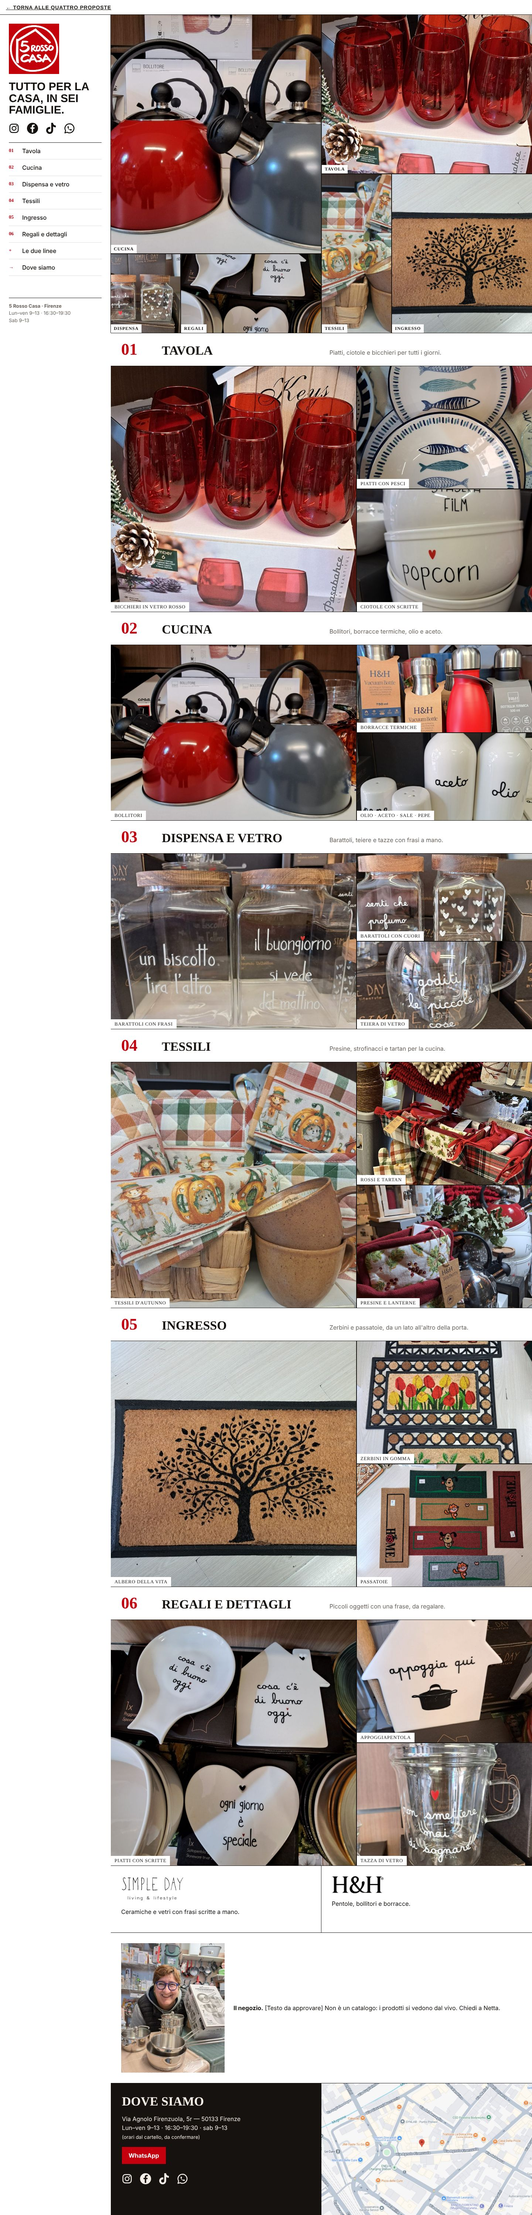
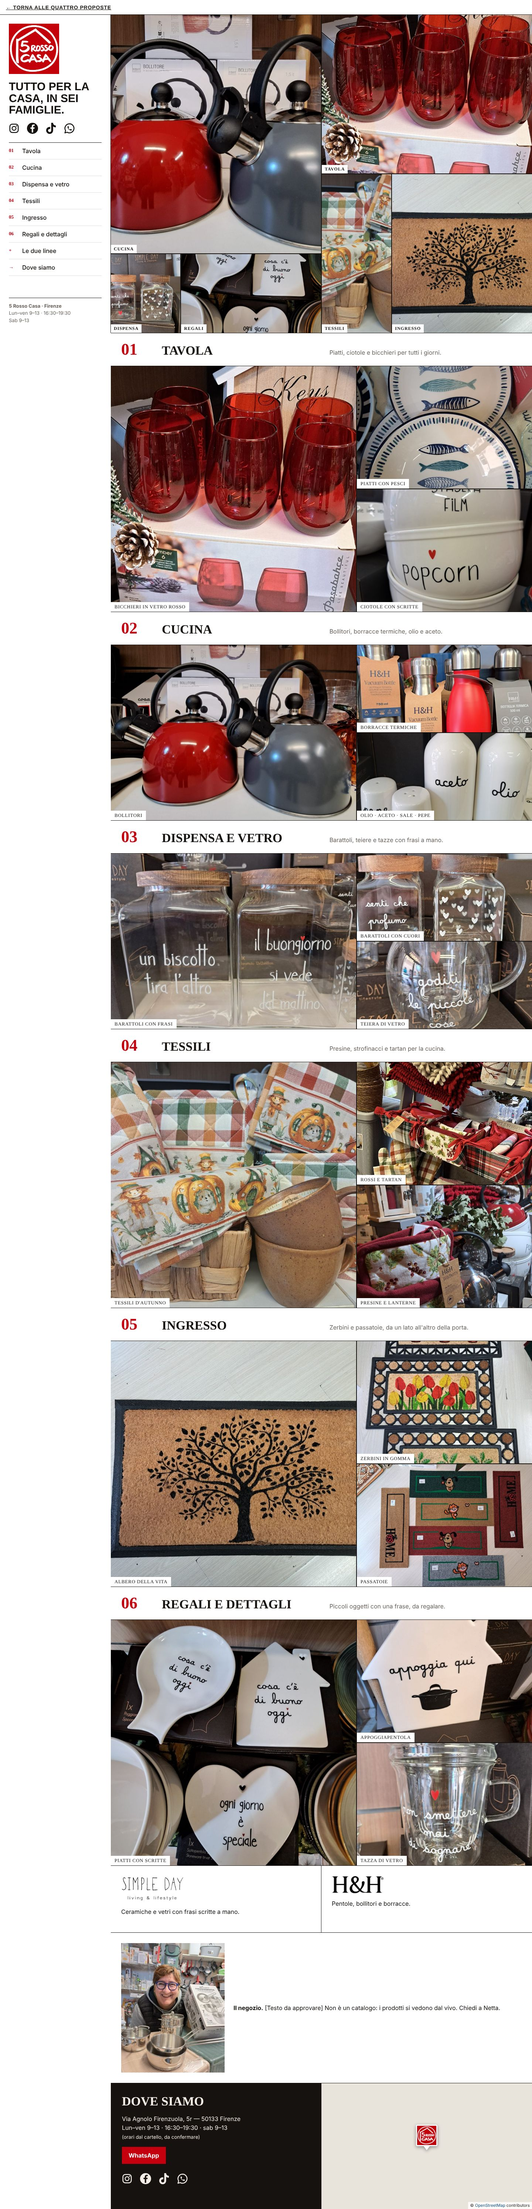
Ripristino della mappa OpenStreetMap con marchio hand 2 come indicatore in A, B, C, D
Ripristinata dal commit e8f7439; rimosse le regole della mappa statica.

Claude-Session: https://claude.ai/code/session_01Wie8PVtFxXNJm6k2L4bQJj

Changed region(s): [[0.1875, 0.0311, 1.0, 0.9965], [0.5938, 0.9342, 1.0, 1.0], [0.0312, 0.0311, 0.125, 0.1557]]

diff --git a/C/index.html b/C/index.html
@@ -35,9 +35,6 @@ img{display:block;width:100%;height:100%;object-fit:cover}a{color:inherit}
 .mk{display:block;height:auto;max-width:100%}.mk-sd{width:170px}.mk-hh{width:140px}
 .brands .mk{display:inline-block;align-self:center}.brands .mk-sd{width:120px}.brands .mk-hh{width:100px}
 .mk-in{display:inline-block;width:120px;height:auto!important;aspect-ratio:auto!important;object-fit:contain!important;vertical-align:middle;margin-right:10px;background:#f4ecdf;padding:5px 9px;border-radius:4px;box-sizing:content-box}
-.mapx{height:auto!important;background:#eee}.mapa{position:static!important;display:block}
-.mapimg{display:block;width:100%;height:auto;aspect-ratio:16/10;max-height:460px;object-fit:cover;object-position:48% 45%}
-@media(max-width:800px){.mapimg{aspect-ratio:4/3}}
 .ic.off{cursor:default;pointer-events:none}
 </style></head><body>
 <svg width="0" height="0" style="position:absolute" aria-hidden="true" focusable="false"><symbol id="i-ig" viewBox="0 0 24 24"><rect x="3" y="3" width="18" height="18" rx="5" fill="none" stroke="currentColor" stroke-width="2"/><circle cx="12" cy="12" r="4.2" fill="none" stroke="currentColor" stroke-width="2"/><circle cx="17.4" cy="6.6" r="1.3" fill="currentColor"/></symbol><symbol id="i-fb" viewBox="0 0 24 24"><path fill="currentColor" fill-rule="evenodd" d="M12 0a12 12 0 1 0 0 24 12 12 0 0 0 0-24zM13.4 21v-8h2.7l.4-3.1h-3.1V8c0-.9.3-1.5 1.6-1.5h1.7V3.7c-.3 0-1.3-.1-2.4-.1-2.4 0-4 1.4-4 4.1v2.2H7.6V13h2.7v8h3.1z"/></symbol><symbol id="i-tt" viewBox="0 0 24 24"><path fill="currentColor" d="M12.525.02c1.31-.02 2.61-.01 3.91-.02.08 1.53.63 3.09 1.75 4.17 1.12 1.11 2.7 1.62 4.24 1.79v4.03c-1.44-.05-2.89-.35-4.2-.97-.57-.26-1.1-.59-1.62-.93-.01 2.92.01 5.84-.02 8.75-.08 1.4-.54 2.79-1.35 3.94-1.31 1.92-3.58 3.17-5.91 3.21-1.43.08-2.86-.31-4.08-1.03-2.02-1.19-3.44-3.37-3.65-5.71-.02-.5-.03-1-.01-1.49.18-1.9 1.12-3.72 2.58-4.96 1.66-1.44 3.98-2.13 6.15-1.72.02 1.48-.04 2.96-.04 4.44-.99-.32-2.15-.23-3.02.37-.63.41-1.11 1.04-1.36 1.75-.21.51-.15 1.07-.14 1.61.24 1.64 1.82 3.02 3.5 2.87 1.12-.01 2.19-.66 2.77-1.61.19-.33.4-.67.41-1.06.1-1.79.06-3.57.07-5.36.01-4.03-.01-8.05.02-12.07z"/></symbol><symbol id="i-wa" viewBox="0 0 24 24"><path d="M12 2.2a9.8 9.8 0 0 0-8.4 14.8L2.2 21.8l4.9-1.3A9.8 9.8 0 1 0 12 2.2z" fill="none" stroke="currentColor" stroke-width="2" stroke-linejoin="round"/><path fill="currentColor" transform="translate(6.3 6.1) scale(.5)" d="M6.62 10.79c1.44 2.83 3.76 5.14 6.59 6.59l2.2-2.2c.27-.27.67-.36 1.02-.24 1.12.37 2.33.57 3.57.57.55 0 1 .45 1 1V20c0 .55-.45 1-1 1-9.39 0-17-7.61-17-17 0-.55.45-1 1-1h3.5c.55 0 1 .45 1 1 0 1.25.2 2.45.57 3.57.11.35.03.74-.25 1.02l-2.2 2.2z"/></symbol></svg>
@@ -61,6 +58,6 @@ img{display:block;width:100%;height:100%;object-fit:cover}a{color:inherit}
 <div class="three"><img src="../img/passatoie.jpg" alt="Passatoie con cani e gatti" style="aspect-ratio:4/5"><img src="../img/mosaico_zerbino_albero.jpg" alt="Zerbino albero della vita" style="aspect-ratio:4/5"><img src="../img/zerbini_gomma.jpg" alt="Zerbini in gomma con piante"></div></section>
 
 <section class="scene s4" id="s4"><div class="ph"><img src="../img/hero_facciata_mobile.jpg" alt="Ingresso del negozio 5 Rosso Casa a Firenze" style="object-position:50% 30%"><figure class="polaroid"><img src="../img/netta_piumini_tartan.jpg" alt="Netta, titolare del negozio, sorride tra due paraspifferi in tartan rosso"><figcaption>Netta, in negozio</figcaption></figure></div>
-<div class="in"><div class="hand" style="color:var(--rosso)">ultimo capitolo</div><h2 style="font:700 clamp(36px,4vw,56px)/1 'Bricolage Grotesque';margin:0">Il resto, dal vivo.</h2><p>Via Agnolo Firenzuola, 5r — 50133 Firenze<br>Lun–ven 9–13 · 16:30–19:30 · sab 9–13<br><small>(orari dal cartello, da confermare)</small></p><p><a class="btn" role="link" aria-disabled="true" title="Numero WhatsApp da confermare">Scrivici su WhatsApp</a></p><div class="soc"><span class="ic off" role="img" aria-label="Instagram"><svg aria-hidden="true" focusable="false"><use href="#i-ig"/></svg></span><span class="ic off" role="img" aria-label="Facebook"><svg aria-hidden="true" focusable="false"><use href="#i-fb"/></svg></span><span class="ic off" role="img" aria-label="TikTok"><svg aria-hidden="true" focusable="false"><use href="#i-tt"/></svg></span><span class="ic off" role="img" aria-label="WhatsApp"><svg aria-hidden="true" focusable="false"><use href="#i-wa"/></svg></span></div><div class="mapx"><a class="mapa" href="https://www.google.com/maps/search/?api=1&query=Via+Agnolo+Firenzuola+5r+50133+Firenze" target="_blank" rel="noopener noreferrer" aria-label="Mappa: 5 Rosso Casa, Via Agnolo Firenzuola, 5r — 50133 Firenze (si apre in Google Maps in una nuova scheda)"><img class="mapimg" src="../img/mappa_via_agnolo_firenzuola.jpg" alt="Mappa statica: il negozio 5 Rosso Casa in Via Agnolo Firenzuola, 5r, Firenze, evidenziato dal segnaposto rosso" width="1400" height="1170"></a></div></div></section>
+<div class="in"><div class="hand" style="color:var(--rosso)">ultimo capitolo</div><h2 style="font:700 clamp(36px,4vw,56px)/1 'Bricolage Grotesque';margin:0">Il resto, dal vivo.</h2><p>Via Agnolo Firenzuola, 5r — 50133 Firenze<br>Lun–ven 9–13 · 16:30–19:30 · sab 9–13<br><small>(orari dal cartello, da confermare)</small></p><p><a class="btn" role="link" aria-disabled="true" title="Numero WhatsApp da confermare">Scrivici su WhatsApp</a></p><div class="soc"><span class="ic off" role="img" aria-label="Instagram"><svg aria-hidden="true" focusable="false"><use href="#i-ig"/></svg></span><span class="ic off" role="img" aria-label="Facebook"><svg aria-hidden="true" focusable="false"><use href="#i-fb"/></svg></span><span class="ic off" role="img" aria-label="TikTok"><svg aria-hidden="true" focusable="false"><use href="#i-tt"/></svg></span><span class="ic off" role="img" aria-label="WhatsApp"><svg aria-hidden="true" focusable="false"><use href="#i-wa"/></svg></span></div><div class="mapx"><a class="mapa" href="https://www.google.com/maps/search/?api=1&query=Via+Agnolo+Firenzuola+5r+50133+Firenze" target="_blank" rel="noopener noreferrer" aria-label="Apri la posizione di 5 Rosso Casa, Via Agnolo Firenzuola, 5r — 50133 Firenze, su Google Maps (si apre in una nuova scheda)"><div class="tiles" aria-hidden="true"><img src="https://tile.openstreetmap.org/17/69637/47766.png" alt="" width="256" height="256" loading="lazy" decoding="async" style="left:0px;top:0px"><img src="https://tile.openstreetmap.org/17/69638/47766.png" alt="" width="256" height="256" loading="lazy" decoding="async" style="left:256px;top:0px"><img src="https://tile.openstreetmap.org/17/69639/47766.png" alt="" width="256" height="256" loading="lazy" decoding="async" style="left:512px;top:0px"><img src="https://tile.openstreetmap.org/17/69640/47766.png" alt="" width="256" height="256" loading="lazy" decoding="async" style="left:768px;top:0px"><img src="https://tile.openstreetmap.org/17/69641/47766.png" alt="" width="256" height="256" loading="lazy" decoding="async" style="left:1024px;top:0px"><img src="https://tile.openstreetmap.org/17/69637/47767.png" alt="" width="256" height="256" loading="lazy" decoding="async" style="left:0px;top:256px"><img src="https://tile.openstreetmap.org/17/69638/47767.png" alt="" width="256" height="256" loading="lazy" decoding="async" style="left:256px;top:256px"><img src="https://tile.openstreetmap.org/17/69639/47767.png" alt="" width="256" height="256" loading="lazy" decoding="async" style="left:512px;top:256px"><img src="https://tile.openstreetmap.org/17/69640/47767.png" alt="" width="256" height="256" loading="lazy" decoding="async" style="left:768px;top:256px"><img src="https://tile.openstreetmap.org/17/69641/47767.png" alt="" width="256" height="256" loading="lazy" decoding="async" style="left:1024px;top:256px"><img src="https://tile.openstreetmap.org/17/69637/47768.png" alt="" width="256" height="256" loading="lazy" decoding="async" style="left:0px;top:512px"><img src="https://tile.openstreetmap.org/17/69638/47768.png" alt="" width="256" height="256" loading="lazy" decoding="async" style="left:256px;top:512px"><img src="https://tile.openstreetmap.org/17/69639/47768.png" alt="" width="256" height="256" loading="lazy" decoding="async" style="left:512px;top:512px"><img src="https://tile.openstreetmap.org/17/69640/47768.png" alt="" width="256" height="256" loading="lazy" decoding="async" style="left:768px;top:512px"><img src="https://tile.openstreetmap.org/17/69641/47768.png" alt="" width="256" height="256" loading="lazy" decoding="async" style="left:1024px;top:512px"></div><span class="pin" aria-hidden="true"><img src="../img/logo_5rossocasa_hand2_web.png" alt=""></span></a><small class="attr">© <a href="https://www.openstreetmap.org/copyright" target="_blank" rel="noopener noreferrer">OpenStreetMap</a> contributors</small></div></div></section>
 <script>(function(){var l=document.querySelector('.logo');function f(){l.classList.toggle('sm',(window.scrollY||document.documentElement.scrollTop)>60)}f();addEventListener('scroll',f,{passive:true})})()</script>
 </body></html>

diff --git a/B/index.html b/B/index.html
@@ -44,9 +44,6 @@ figcaption{position:absolute;left:0;bottom:0;background:#fff;padding:5px 10px;fo
 .mk{display:block;height:auto;max-width:100%}.mk-sd{width:170px}.mk-hh{width:140px}
 .brands .mk{display:inline-block;align-self:center}.brands .mk-sd{width:120px}.brands .mk-hh{width:100px}
 .mk-in{display:inline-block;width:120px;vertical-align:middle;margin-right:8px}
-.mapx{height:auto!important;background:#eee}.mapa{position:static!important;display:block}
-.mapimg{display:block;width:100%;height:auto;aspect-ratio:16/10;max-height:460px;object-fit:cover;object-position:48% 45%}
-@media(max-width:800px){.mapimg{aspect-ratio:4/3}}
 .ic.off{cursor:default;pointer-events:none}
 </style></head><body>
 <svg width="0" height="0" style="position:absolute" aria-hidden="true" focusable="false"><symbol id="i-ig" viewBox="0 0 24 24"><rect x="3" y="3" width="18" height="18" rx="5" fill="none" stroke="currentColor" stroke-width="2"/><circle cx="12" cy="12" r="4.2" fill="none" stroke="currentColor" stroke-width="2"/><circle cx="17.4" cy="6.6" r="1.3" fill="currentColor"/></symbol><symbol id="i-fb" viewBox="0 0 24 24"><path fill="currentColor" fill-rule="evenodd" d="M12 0a12 12 0 1 0 0 24 12 12 0 0 0 0-24zM13.4 21v-8h2.7l.4-3.1h-3.1V8c0-.9.3-1.5 1.6-1.5h1.7V3.7c-.3 0-1.3-.1-2.4-.1-2.4 0-4 1.4-4 4.1v2.2H7.6V13h2.7v8h3.1z"/></symbol><symbol id="i-tt" viewBox="0 0 24 24"><path fill="currentColor" d="M12.525.02c1.31-.02 2.61-.01 3.91-.02.08 1.53.63 3.09 1.75 4.17 1.12 1.11 2.7 1.62 4.24 1.79v4.03c-1.44-.05-2.89-.35-4.2-.97-.57-.26-1.1-.59-1.62-.93-.01 2.92.01 5.84-.02 8.75-.08 1.4-.54 2.79-1.35 3.94-1.31 1.92-3.58 3.17-5.91 3.21-1.43.08-2.86-.31-4.08-1.03-2.02-1.19-3.44-3.37-3.65-5.71-.02-.5-.03-1-.01-1.49.18-1.9 1.12-3.72 2.58-4.96 1.66-1.44 3.98-2.13 6.15-1.72.02 1.48-.04 2.96-.04 4.44-.99-.32-2.15-.23-3.02.37-.63.41-1.11 1.04-1.36 1.75-.21.51-.15 1.07-.14 1.61.24 1.64 1.82 3.02 3.5 2.87 1.12-.01 2.19-.66 2.77-1.61.19-.33.4-.67.41-1.06.1-1.79.06-3.57.07-5.36.01-4.03-.01-8.05.02-12.07z"/></symbol><symbol id="i-wa" viewBox="0 0 24 24"><path d="M12 2.2a9.8 9.8 0 0 0-8.4 14.8L2.2 21.8l4.9-1.3A9.8 9.8 0 1 0 12 2.2z" fill="none" stroke="currentColor" stroke-width="2" stroke-linejoin="round"/><path fill="currentColor" transform="translate(6.3 6.1) scale(.5)" d="M6.62 10.79c1.44 2.83 3.76 5.14 6.59 6.59l2.2-2.2c.27-.27.67-.36 1.02-.24 1.12.37 2.33.57 3.57.57.55 0 1 .45 1 1V20c0 .55-.45 1-1 1-9.39 0-17-7.61-17-17 0-.55.45-1 1-1h3.5c.55 0 1 .45 1 1 0 1.25.2 2.45.57 3.57.11.35.03.74-.25 1.02l-2.2 2.2z"/></symbol></svg>
@@ -98,5 +95,5 @@ figcaption{position:absolute;left:0;bottom:0;background:#fff;padding:5px 10px;fo
 
 <section class="linee" id="linee"><div><h3><img class="mk mk-sd" src="../img/simpleday_logo.png" alt="Simple Day — living &amp; lifestyle" width="425" height="171"></h3><p>Ceramiche e vetri con frasi scritte a mano.</p></div><div><h3><img class="mk mk-hh" src="../img/hh_logo.png" alt="H&amp;H" width="600" height="199"></h3><p>Pentole, bollitori e borracce.</p></div></section>
 <section class="negozio"><img src="../img/netta_con_pentole.jpg" alt="Netta, titolare del negozio"><div><b>Il negozio.</b> [Testo da approvare] Non è un catalogo: i prodotti si vedono dal vivo. Chiedi a Netta.</div></section>
-<section class="dove" id="dove"><div><h2 style="font:700 34px 'Archivo Narrow';text-transform:uppercase;margin:0 0 10px">Dove siamo</h2><p>Via Agnolo Firenzuola, 5r — 50133 Firenze<br>Lun–ven 9–13 · 16:30–19:30 · sab 9–13<br><small>(orari dal cartello, da confermare)</small></p><p><a class="btn" role="link" aria-disabled="true" title="Numero WhatsApp da confermare">WhatsApp</a> </p><div class="soc"><span class="ic off" role="img" aria-label="Instagram"><svg aria-hidden="true" focusable="false"><use href="#i-ig"/></svg></span><span class="ic off" role="img" aria-label="Facebook"><svg aria-hidden="true" focusable="false"><use href="#i-fb"/></svg></span><span class="ic off" role="img" aria-label="TikTok"><svg aria-hidden="true" focusable="false"><use href="#i-tt"/></svg></span><span class="ic off" role="img" aria-label="WhatsApp"><svg aria-hidden="true" focusable="false"><use href="#i-wa"/></svg></span></div></div><div class="mapx"><a class="mapa" href="https://www.google.com/maps/search/?api=1&query=Via+Agnolo+Firenzuola+5r+50133+Firenze" target="_blank" rel="noopener noreferrer" aria-label="Mappa: 5 Rosso Casa, Via Agnolo Firenzuola, 5r — 50133 Firenze (si apre in Google Maps in una nuova scheda)"><img class="mapimg" src="../img/mappa_via_agnolo_firenzuola.jpg" alt="Mappa statica: il negozio 5 Rosso Casa in Via Agnolo Firenzuola, 5r, Firenze, evidenziato dal segnaposto rosso" width="1400" height="1170"></a></div></section>
+<section class="dove" id="dove"><div><h2 style="font:700 34px 'Archivo Narrow';text-transform:uppercase;margin:0 0 10px">Dove siamo</h2><p>Via Agnolo Firenzuola, 5r — 50133 Firenze<br>Lun–ven 9–13 · 16:30–19:30 · sab 9–13<br><small>(orari dal cartello, da confermare)</small></p><p><a class="btn" role="link" aria-disabled="true" title="Numero WhatsApp da confermare">WhatsApp</a> </p><div class="soc"><span class="ic off" role="img" aria-label="Instagram"><svg aria-hidden="true" focusable="false"><use href="#i-ig"/></svg></span><span class="ic off" role="img" aria-label="Facebook"><svg aria-hidden="true" focusable="false"><use href="#i-fb"/></svg></span><span class="ic off" role="img" aria-label="TikTok"><svg aria-hidden="true" focusable="false"><use href="#i-tt"/></svg></span><span class="ic off" role="img" aria-label="WhatsApp"><svg aria-hidden="true" focusable="false"><use href="#i-wa"/></svg></span></div></div><div class="mapx"><a class="mapa" href="https://www.google.com/maps/search/?api=1&query=Via+Agnolo+Firenzuola+5r+50133+Firenze" target="_blank" rel="noopener noreferrer" aria-label="Apri la posizione di 5 Rosso Casa, Via Agnolo Firenzuola, 5r — 50133 Firenze, su Google Maps (si apre in una nuova scheda)"><div class="tiles" aria-hidden="true"><img src="https://tile.openstreetmap.org/17/69637/47766.png" alt="" width="256" height="256" loading="lazy" decoding="async" style="left:0px;top:0px"><img src="https://tile.openstreetmap.org/17/69638/47766.png" alt="" width="256" height="256" loading="lazy" decoding="async" style="left:256px;top:0px"><img src="https://tile.openstreetmap.org/17/69639/47766.png" alt="" width="256" height="256" loading="lazy" decoding="async" style="left:512px;top:0px"><img src="https://tile.openstreetmap.org/17/69640/47766.png" alt="" width="256" height="256" loading="lazy" decoding="async" style="left:768px;top:0px"><img src="https://tile.openstreetmap.org/17/69641/47766.png" alt="" width="256" height="256" loading="lazy" decoding="async" style="left:1024px;top:0px"><img src="https://tile.openstreetmap.org/17/69637/47767.png" alt="" width="256" height="256" loading="lazy" decoding="async" style="left:0px;top:256px"><img src="https://tile.openstreetmap.org/17/69638/47767.png" alt="" width="256" height="256" loading="lazy" decoding="async" style="left:256px;top:256px"><img src="https://tile.openstreetmap.org/17/69639/47767.png" alt="" width="256" height="256" loading="lazy" decoding="async" style="left:512px;top:256px"><img src="https://tile.openstreetmap.org/17/69640/47767.png" alt="" width="256" height="256" loading="lazy" decoding="async" style="left:768px;top:256px"><img src="https://tile.openstreetmap.org/17/69641/47767.png" alt="" width="256" height="256" loading="lazy" decoding="async" style="left:1024px;top:256px"><img src="https://tile.openstreetmap.org/17/69637/47768.png" alt="" width="256" height="256" loading="lazy" decoding="async" style="left:0px;top:512px"><img src="https://tile.openstreetmap.org/17/69638/47768.png" alt="" width="256" height="256" loading="lazy" decoding="async" style="left:256px;top:512px"><img src="https://tile.openstreetmap.org/17/69639/47768.png" alt="" width="256" height="256" loading="lazy" decoding="async" style="left:512px;top:512px"><img src="https://tile.openstreetmap.org/17/69640/47768.png" alt="" width="256" height="256" loading="lazy" decoding="async" style="left:768px;top:512px"><img src="https://tile.openstreetmap.org/17/69641/47768.png" alt="" width="256" height="256" loading="lazy" decoding="async" style="left:1024px;top:512px"></div><span class="pin" aria-hidden="true"><img src="../img/logo_5rossocasa_hand2_web.png" alt=""></span></a><small class="attr">© <a href="https://www.openstreetmap.org/copyright" target="_blank" rel="noopener noreferrer">OpenStreetMap</a> contributors</small></div></section>
 </main></div></body></html>

diff --git a/A/index.html b/A/index.html
@@ -43,9 +43,6 @@ footer{padding:26px;text-align:center;font-size:13px;color:var(--muto)}
 .mk{display:block;height:auto;max-width:100%}.mk-sd{width:170px}.mk-hh{width:140px}
 .brands .mk{display:inline-block;align-self:center}.brands .mk-sd{width:120px}.brands .mk-hh{width:100px}
 .mk-in{display:inline-block;width:120px;vertical-align:middle;margin-right:8px}
-.mapx{height:auto!important;background:#eee}.mapa{position:static!important;display:block}
-.mapimg{display:block;width:100%;height:auto;aspect-ratio:16/10;max-height:460px;object-fit:cover;object-position:48% 45%}
-@media(max-width:800px){.mapimg{aspect-ratio:4/3}}
 .ic.off{cursor:default;pointer-events:none}
 </style><style id="fix3">
 .first .top img{position:fixed!important;top:52px;left:24px;z-index:20;transition:width .25s ease}
@@ -75,7 +72,7 @@ footer{padding:26px;text-align:center;font-size:13px;color:var(--muto)}
 
 <section id="quartiere" class="s5"><div class="wrap cols"><div class="a"><div class="lab" style="color:#ff8a8a">Dove siamo</div><p class="lead" style="margin-bottom:24px">Via Agnolo Firenzuola, 5r — 50133 Firenze</p>
 <table><tr><td>Lunedì–venerdì</td><td>9–13 · 16:30–19:30</td></tr><tr><td>Sabato</td><td>9–13</td></tr></table><p style="font-size:13px;opacity:.7">orari dal cartello in vetrina, da confermare</p><p><a class="btn" role="link" aria-disabled="true" title="Numero WhatsApp da confermare">WhatsApp</a></p></div>
-<div class="b"><div class="mapx"><a class="mapa" href="https://www.google.com/maps/search/?api=1&query=Via+Agnolo+Firenzuola+5r+50133+Firenze" target="_blank" rel="noopener noreferrer" aria-label="Mappa: 5 Rosso Casa, Via Agnolo Firenzuola, 5r — 50133 Firenze (si apre in Google Maps in una nuova scheda)"><img class="mapimg" src="../img/mappa_via_agnolo_firenzuola.jpg" alt="Mappa statica: il negozio 5 Rosso Casa in Via Agnolo Firenzuola, 5r, Firenze, evidenziato dal segnaposto rosso" width="1400" height="1170"></a></div></div></div></section>
+<div class="b"><div class="mapx"><a class="mapa" href="https://www.google.com/maps/search/?api=1&query=Via+Agnolo+Firenzuola+5r+50133+Firenze" target="_blank" rel="noopener noreferrer" aria-label="Apri la posizione di 5 Rosso Casa, Via Agnolo Firenzuola, 5r — 50133 Firenze, su Google Maps (si apre in una nuova scheda)"><div class="tiles" aria-hidden="true"><img src="https://tile.openstreetmap.org/17/69637/47766.png" alt="" width="256" height="256" loading="lazy" decoding="async" style="left:0px;top:0px"><img src="https://tile.openstreetmap.org/17/69638/47766.png" alt="" width="256" height="256" loading="lazy" decoding="async" style="left:256px;top:0px"><img src="https://tile.openstreetmap.org/17/69639/47766.png" alt="" width="256" height="256" loading="lazy" decoding="async" style="left:512px;top:0px"><img src="https://tile.openstreetmap.org/17/69640/47766.png" alt="" width="256" height="256" loading="lazy" decoding="async" style="left:768px;top:0px"><img src="https://tile.openstreetmap.org/17/69641/47766.png" alt="" width="256" height="256" loading="lazy" decoding="async" style="left:1024px;top:0px"><img src="https://tile.openstreetmap.org/17/69637/47767.png" alt="" width="256" height="256" loading="lazy" decoding="async" style="left:0px;top:256px"><img src="https://tile.openstreetmap.org/17/69638/47767.png" alt="" width="256" height="256" loading="lazy" decoding="async" style="left:256px;top:256px"><img src="https://tile.openstreetmap.org/17/69639/47767.png" alt="" width="256" height="256" loading="lazy" decoding="async" style="left:512px;top:256px"><img src="https://tile.openstreetmap.org/17/69640/47767.png" alt="" width="256" height="256" loading="lazy" decoding="async" style="left:768px;top:256px"><img src="https://tile.openstreetmap.org/17/69641/47767.png" alt="" width="256" height="256" loading="lazy" decoding="async" style="left:1024px;top:256px"><img src="https://tile.openstreetmap.org/17/69637/47768.png" alt="" width="256" height="256" loading="lazy" decoding="async" style="left:0px;top:512px"><img src="https://tile.openstreetmap.org/17/69638/47768.png" alt="" width="256" height="256" loading="lazy" decoding="async" style="left:256px;top:512px"><img src="https://tile.openstreetmap.org/17/69639/47768.png" alt="" width="256" height="256" loading="lazy" decoding="async" style="left:512px;top:512px"><img src="https://tile.openstreetmap.org/17/69640/47768.png" alt="" width="256" height="256" loading="lazy" decoding="async" style="left:768px;top:512px"><img src="https://tile.openstreetmap.org/17/69641/47768.png" alt="" width="256" height="256" loading="lazy" decoding="async" style="left:1024px;top:512px"></div><span class="pin" aria-hidden="true"><img src="../img/logo_5rossocasa_hand2_web.png" alt=""></span></a><small class="attr">© <a href="https://www.openstreetmap.org/copyright" target="_blank" rel="noopener noreferrer">OpenStreetMap</a> contributors</small></div></div></div></section>
 <footer><div class="soc"><span class="ic off" role="img" aria-label="Instagram"><svg aria-hidden="true" focusable="false"><use href="#i-ig"/></svg></span><span class="ic off" role="img" aria-label="Facebook"><svg aria-hidden="true" focusable="false"><use href="#i-fb"/></svg></span><span class="ic off" role="img" aria-label="TikTok"><svg aria-hidden="true" focusable="false"><use href="#i-tt"/></svg></span><span class="ic off" role="img" aria-label="WhatsApp"><svg aria-hidden="true" focusable="false"><use href="#i-wa"/></svg></span></div>© 5ROSSO CASA · prototipo A — non è il sito pubblicato</footer>
 <div class="bar"><span>Oggi · 9–13 · 16:30–19:30</span><a href="https://www.google.com/maps/dir/?api=1&destination=Via+Agnolo+Firenzuola+5r+50133+Firenze" target="_blank" rel="noopener noreferrer" aria-label="Indicazioni stradali su Google Maps (si apre in una nuova scheda)">Indicazioni →</a></div>
 <script>(function(){function f(){document.documentElement.classList.toggle('sc',(window.scrollY||document.documentElement.scrollTop)>60)}f();addEventListener('scroll',f,{passive:true})})()</script></body></html>

diff --git a/D/index.html b/D/index.html
@@ -44,9 +44,6 @@ footer{padding:24px;text-align:center;font-size:13px;color:var(--muto)}
 .mk{display:block;height:auto;max-width:100%}.mk-sd{width:170px}.mk-hh{width:140px}
 .brands .mk{display:inline-block;align-self:center}.brands .mk-sd{width:120px}.brands .mk-hh{width:100px}
 .mk-in{display:inline-block;width:120px;vertical-align:middle;margin-right:8px}
-.mapx{height:auto!important;background:#eee}.mapa{position:static!important;display:block}
-.mapimg{display:block;width:100%;height:auto;aspect-ratio:16/10;max-height:460px;object-fit:cover;object-position:48% 45%}
-@media(max-width:800px){.mapimg{aspect-ratio:4/3}}
 .ic.off{cursor:default;pointer-events:none}
 </style><style id="fix3">
 .top .wrap{width:100%;box-sizing:border-box}
@@ -87,7 +84,7 @@ footer{padding:24px;text-align:center;font-size:13px;color:var(--muto)}
 <section class="dove" id="dove"><div class="wrap"><div><p class="eyebrow">Dove siamo</p><h2>Passa a trovarci.</h2><p style="margin:14px 0 0">Via Agnolo Firenzuola, 5r — 50133 Firenze</p>
 <table><tr><td>Lunedì–venerdì</td><td>9–13 · 16:30–19:30</td></tr><tr><td>Sabato</td><td>9–13</td></tr></table><small style="color:var(--muto)">orari dal cartello in vetrina, da confermare</small>
 <p style="margin-top:18px"><a class="btn" role="link" aria-disabled="true" title="Numero WhatsApp da confermare">WhatsApp</a></p></div>
-<div class="mapx"><a class="mapa" href="https://www.google.com/maps/search/?api=1&query=Via+Agnolo+Firenzuola+5r+50133+Firenze" target="_blank" rel="noopener noreferrer" aria-label="Mappa: 5 Rosso Casa, Via Agnolo Firenzuola, 5r — 50133 Firenze (si apre in Google Maps in una nuova scheda)"><img class="mapimg" src="../img/mappa_via_agnolo_firenzuola.jpg" alt="Mappa statica: il negozio 5 Rosso Casa in Via Agnolo Firenzuola, 5r, Firenze, evidenziato dal segnaposto rosso" width="1400" height="1170"></a></div></div></section>
+<div class="mapx"><a class="mapa" href="https://www.google.com/maps/search/?api=1&query=Via+Agnolo+Firenzuola+5r+50133+Firenze" target="_blank" rel="noopener noreferrer" aria-label="Apri la posizione di 5 Rosso Casa, Via Agnolo Firenzuola, 5r — 50133 Firenze, su Google Maps (si apre in una nuova scheda)"><div class="tiles" aria-hidden="true"><img src="https://tile.openstreetmap.org/17/69637/47766.png" alt="" width="256" height="256" loading="lazy" decoding="async" style="left:0px;top:0px"><img src="https://tile.openstreetmap.org/17/69638/47766.png" alt="" width="256" height="256" loading="lazy" decoding="async" style="left:256px;top:0px"><img src="https://tile.openstreetmap.org/17/69639/47766.png" alt="" width="256" height="256" loading="lazy" decoding="async" style="left:512px;top:0px"><img src="https://tile.openstreetmap.org/17/69640/47766.png" alt="" width="256" height="256" loading="lazy" decoding="async" style="left:768px;top:0px"><img src="https://tile.openstreetmap.org/17/69641/47766.png" alt="" width="256" height="256" loading="lazy" decoding="async" style="left:1024px;top:0px"><img src="https://tile.openstreetmap.org/17/69637/47767.png" alt="" width="256" height="256" loading="lazy" decoding="async" style="left:0px;top:256px"><img src="https://tile.openstreetmap.org/17/69638/47767.png" alt="" width="256" height="256" loading="lazy" decoding="async" style="left:256px;top:256px"><img src="https://tile.openstreetmap.org/17/69639/47767.png" alt="" width="256" height="256" loading="lazy" decoding="async" style="left:512px;top:256px"><img src="https://tile.openstreetmap.org/17/69640/47767.png" alt="" width="256" height="256" loading="lazy" decoding="async" style="left:768px;top:256px"><img src="https://tile.openstreetmap.org/17/69641/47767.png" alt="" width="256" height="256" loading="lazy" decoding="async" style="left:1024px;top:256px"><img src="https://tile.openstreetmap.org/17/69637/47768.png" alt="" width="256" height="256" loading="lazy" decoding="async" style="left:0px;top:512px"><img src="https://tile.openstreetmap.org/17/69638/47768.png" alt="" width="256" height="256" loading="lazy" decoding="async" style="left:256px;top:512px"><img src="https://tile.openstreetmap.org/17/69639/47768.png" alt="" width="256" height="256" loading="lazy" decoding="async" style="left:512px;top:512px"><img src="https://tile.openstreetmap.org/17/69640/47768.png" alt="" width="256" height="256" loading="lazy" decoding="async" style="left:768px;top:512px"><img src="https://tile.openstreetmap.org/17/69641/47768.png" alt="" width="256" height="256" loading="lazy" decoding="async" style="left:1024px;top:512px"></div><span class="pin" aria-hidden="true"><img src="../img/logo_5rossocasa_hand2_web.png" alt=""></span></a><small class="attr">© <a href="https://www.openstreetmap.org/copyright" target="_blank" rel="noopener noreferrer">OpenStreetMap</a> contributors</small></div></div></section>
 <footer><div class="soc"><span class="ic off" role="img" aria-label="Instagram"><svg aria-hidden="true" focusable="false"><use href="#i-ig"/></svg></span><span class="ic off" role="img" aria-label="Facebook"><svg aria-hidden="true" focusable="false"><use href="#i-fb"/></svg></span><span class="ic off" role="img" aria-label="TikTok"><svg aria-hidden="true" focusable="false"><use href="#i-tt"/></svg></span><span class="ic off" role="img" aria-label="WhatsApp"><svg aria-hidden="true" focusable="false"><use href="#i-wa"/></svg></span></div>© 5ROSSO CASA · prototipo D, bozza di studio</footer>
 <div class="bar"><a href="#dove">WhatsApp</a><a href="https://www.google.com/maps/dir/?api=1&destination=Via+Agnolo+Firenzuola+5r+50133+Firenze" target="_blank" rel="noopener noreferrer" aria-label="Indicazioni stradali su Google Maps (si apre in una nuova scheda)">Indicazioni</a></div>
 <script>(function(){function f(){document.documentElement.classList.toggle('sc',(window.scrollY||document.documentElement.scrollTop)>60)}f();addEventListener('scroll',f,{passive:true})})()</script></body></html>
